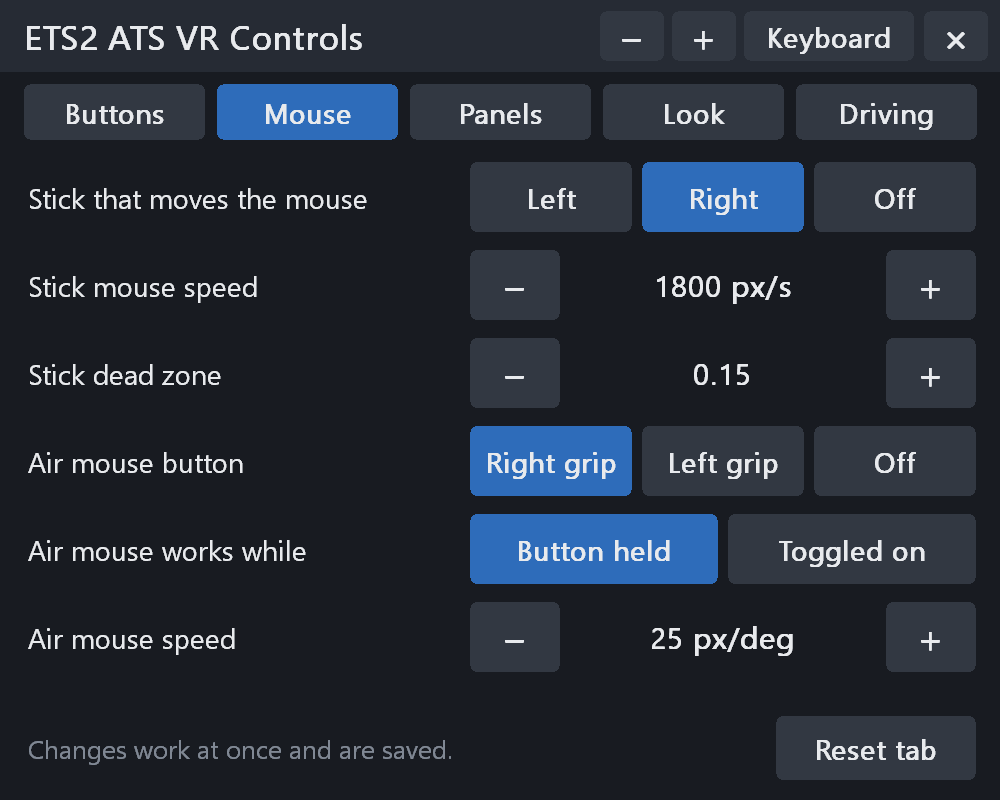
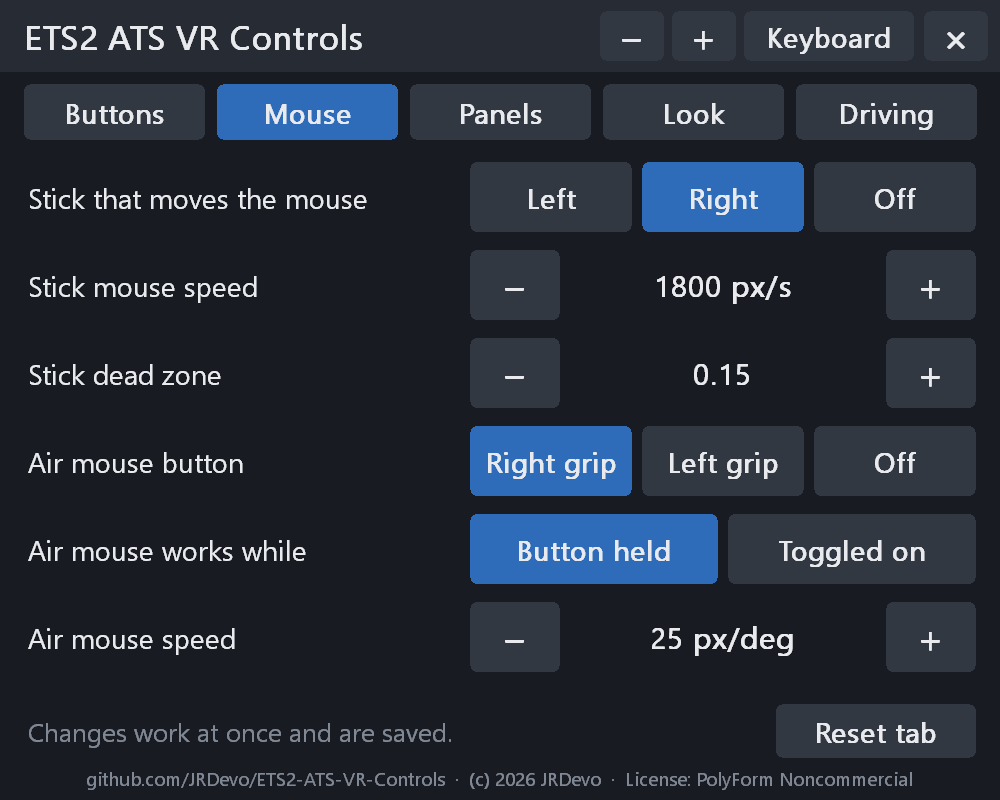
VR menu: project / copyright / licence line at the bottom (as the DLAA mod and VR EyeCapture)
"github.com/JRDevo/ETS2-ATS-VR-Controls · (c) 2026 JRDevo · License: PolyForm Noncommercial", small and dim under every
tab (eInfo kFootArg, 19 px, centred). Text only: a clickable link would open a browser on the desktop and take the focus
from the game (input stops). The bottom row (status, Reset tab, the pick bar) moved up 12 px to make room. Screenshots.

Changed region(s): [[0.031, 0.9062, 0.465, 1.0], [0.62, 0.875, 0.992, 1.0], [0.465, 0.9688, 0.589, 1.0]]

diff --git a/src/vr_menu.cpp b/src/vr_menu.cpp
@@ -686,10 +686,10 @@ void VrMenu::LayoutMenu() {
             static const int kOuts[8] = { VrPad::kMouseL, VrPad::kMouseR, VrPad::kMouseM, VrPad::kWheelUp, VrPad::kWheelDown,
                                           VrPad::kGas, VrPad::kBrake, VrPad::kNone };
             static const char* const kOutNames[8] = { "Mouse L", "Mouse R", "Mouse M", "Wheel up", "Wheel dn", "Gas", "Brake", "None" };
-            for (int i = 0; i < 8; ++i) add(ePickOut, kOuts[i], 24 + i * 103, 716, 97, 64, kOutNames[i]);
-            add(ePickCancel, 0, 852, 716, 124, 64, "Cancel");
+            for (int i = 0; i < 8; ++i) add(ePickOut, kOuts[i], 24 + i * 103, 704, 97, 54, kOutNames[i]);
+            add(ePickCancel, 0, 852, 704, 124, 54, "Cancel");
         } else {
-            add(eInfo, 0, 24, 716, 742, 64, !status_.empty() ? status_
+            add(eInfo, 0, 24, 704, 742, 54, !status_.empty() ? status_
                 : layer_ ? "While the modifier is held, these buttons send this instead." : "Point at a button, pull the trigger, pick its key.");
         }
     } else if (tab_ == 1) {
@@ -719,7 +719,7 @@ void VrMenu::LayoutMenu() {
         row(5, "Air mouse speed");
         snprintf(b, sizeof(b), "%.0f px/deg", (double)pad_.airGain);
         plusMinus(5, 50, b);
-        add(eInfo, 0, 24, 716, 742, 64, status_.empty() ? "Changes work at once and are saved." : status_);
+        add(eInfo, 0, 24, 704, 742, 54, status_.empty() ? "Changes work at once and are saved." : status_);
     } else if (tab_ == 2) {
         auto row = [&](int r, const char* label) { add(eInfo, 100 + r, 24, 156 + r * 76, 440, 64, label); };
         auto plusMinus = [&](int r, int base, const std::string& value, const char* minus, const char* plus) {
@@ -753,7 +753,7 @@ void VrMenu::LayoutMenu() {
         snprintf(b, sizeof(b), " for %.1f s", gate_.hold);
         add(eInfo, 300, 24, 612, 952, 46, "Menu open / close: hold " + combo + b);
         add(eInfo, 301, 24, 656, 952, 46, "Move: point at a panel, hold the grip, move. Its stick: farther / closer.");
-        add(eInfo, 0, 24, 716, 742, 64, status_.empty() ? "The keyboard stays when the menu closes (its x hides it)." : status_);
+        add(eInfo, 0, 24, 704, 742, 54, status_.empty() ? "The keyboard stays when the menu closes (its x hides it)." : status_);
     } else if (tab_ == 3) {
         auto row = [&](int r, const char* label) { add(eInfo, 100 + r, 24, 162 + r * 88, 440, 70, label); };
         row(0, "Colours");
@@ -773,7 +773,7 @@ void VrMenu::LayoutMenu() {
         static const char* const kSm[4] = { "Off", "Low", "Medium", "High" };
         for (int i = 0; i < 4; ++i) add(eSet, 110 + i, 470 + i * 129, 514, 119, 70, kSm[i], look_.smoothing == i);
         add(eInfo, 302, 24, 596, 952, 56, "Smoothing calms a shaky hand (menu pointer and air mouse).");
-        add(eInfo, 0, 24, 716, 742, 64, status_.empty() ? "- = more see-through, + = more solid." : status_);
+        add(eInfo, 0, 24, 704, 742, 54, status_.empty() ? "- = more see-through, + = more solid." : status_);
     } else {                                            // Driving (scs_input.h): steering here, gas / brake on any button
         auto row = [&](int r, const char* label) { add(eInfo, 100 + r, 24, 156 + r * 68, 440, 60, label); };
         auto opts = [&](int r, int base, std::initializer_list<const char*> names, int cur) {
@@ -815,11 +815,15 @@ void VrMenu::LayoutMenu() {
             else snprintf(b, sizeof(b), "%.2g s to full", 1.0 / (double)pad_.steerSpeed);
             plusMinus(6, 139, b);
         }
-        add(eInfo, 0, 24, 716, 742, 64, !status_.empty() ? status_ : !pad_.drive ? "Driving off: no steering, gas or brake."
+        add(eInfo, 0, 24, 704, 742, 54, !status_.empty() ? status_ : !pad_.drive ? "Driving off: no steering, gas or brake."
                                         : rate ? "Push a little = turn slowly, all the way = fast." : "The stick's place = the wheel's place.");
     }
     if (!(tab_ == 0 && picking))                        // every tab: back to the defaults (a second press does it)
-        add(eSet, kResetArg, 776, 716, 200, 64, resetArm_ == tab_ ? "Sure? Reset" : "Reset tab", resetArm_ == tab_);
+        add(eSet, kResetArg, 776, 704, 200, 54, resetArm_ == tab_ ? "Sure? Reset" : "Reset tab", resetArm_ == tab_);
+    // the project, the copyright and the licence (as the DLAA mod and VR EyeCapture show them; text only: a link would open a
+    // browser on the desktop and take the focus from the game)
+    add(eInfo, kFootArg, 24, 764, 952, 30,
+        "github.com/JRDevo/ETS2-ATS-VR-Controls  \xC2\xB7  (c) 2026 JRDevo  \xC2\xB7  License: PolyForm Noncommercial");
 }
 
 void VrMenu::LayoutKb() {
@@ -957,9 +961,9 @@ void VrMenu::DrawElem(MenuCanvas& c, int theme, const Elem& e, int st) {
         c.Text(e.x + 24, e.y, e.w - 24, e.h, e.text, 34, true, e.on ? T.accent : T.text, DT_LEFT);
         break;
     case eInfo: {
-        const bool label = e.arg >= 100 && e.arg < 200, value = e.arg >= 200 && e.arg < 300;
-        c.Text(e.x + (value ? 0 : 4), e.y, e.w, e.h, e.text, label ? 28 : value ? 30 : 26, value, label || value ? T.text : T.dim,
-               value ? DT_CENTER : DT_LEFT);
+        const bool label = e.arg >= 100 && e.arg < 200, value = e.arg >= 200 && e.arg < 300, foot = e.arg == kFootArg;
+        c.Text(e.x + (value || foot ? 0 : 4), e.y, e.w, e.h, e.text, foot ? 19 : label ? 28 : value ? 30 : 26, value,
+               label || value ? T.text : T.dim, value || foot ? DT_CENTER : DT_LEFT);
         break;
     }
     case eRow: {

diff --git a/src/vr_menu.h b/src/vr_menu.h
@@ -119,6 +119,7 @@ public:
     std::string Describe() const;
     // element kinds (public for the tests)
     enum Kind { eNone, eBar, eClose, eSmaller, eBigger, eKbBtn, eTab, eRow, ePickOut, ePickCancel, eSet, eKey, eHere, eInfo };
+    static constexpr int kFootArg = 400;          // eInfo arg of the bottom line (project, copyright, licence)
     static constexpr int kResetArg = 150;         // eSet arg of every tab's Reset button (tests)
     void Open(bool headOk, const Pose& head);     // as the combo does (tests)
     static int KeyIndex(const char* name);        // tests: the eKey arg of a keyboard key ("f1", "shift"); -1 = none
